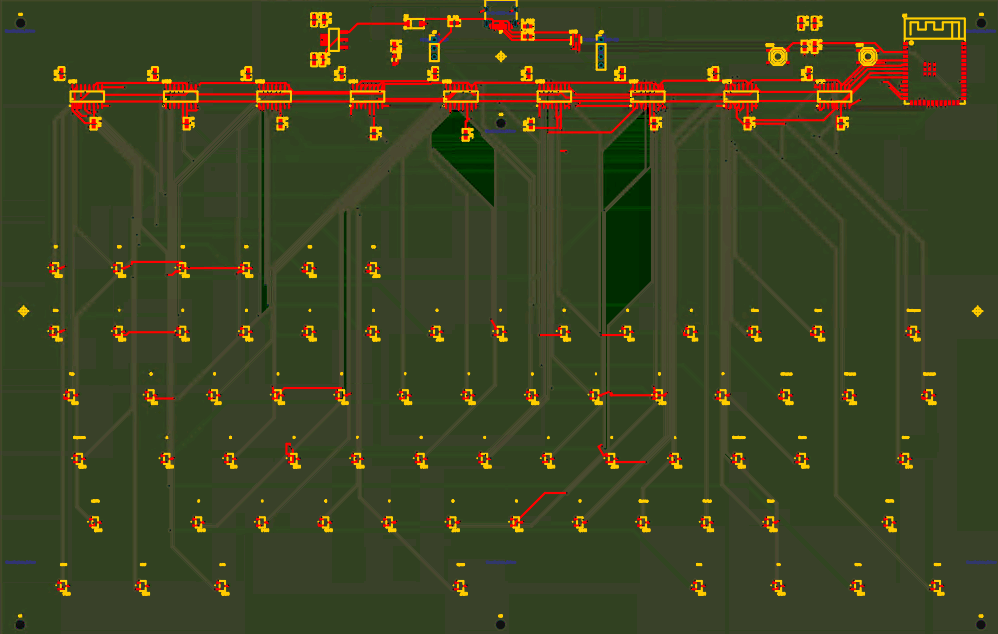
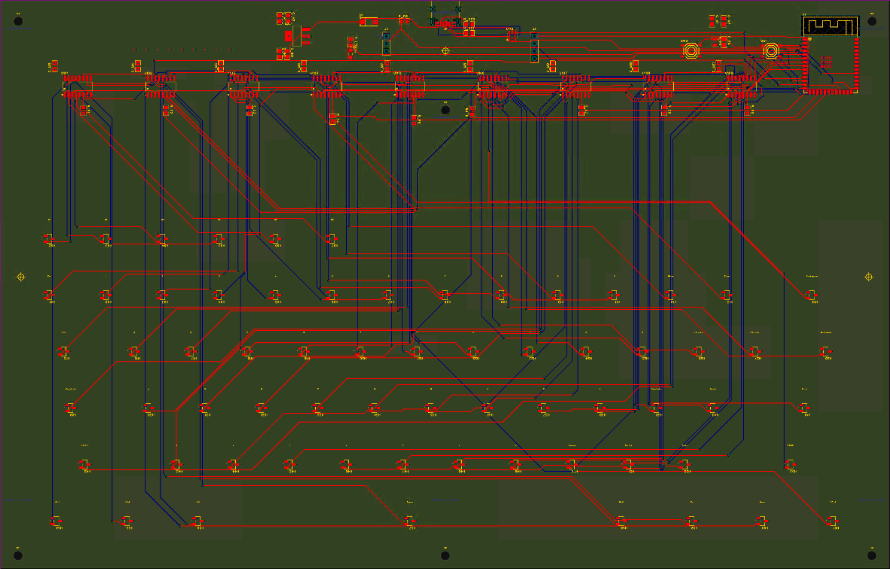
README: PCB 图改用 EDA 原画布导出 (04-显示层/pcb.png)

diff --git a/README.md b/README.md
@@ -19,9 +19,9 @@
 
 <br clear="all" />
 
-<img src="docs/images/pcb-5c-top.png" width="49%" alt="PCB 顶层布线" /><img src="docs/images/pcb-5c-bottom.png" width="49%" alt="PCB 底层布线" />
+**PCB v43b-5c 封板版布线** —— 300×192mm 四层（L1 红 / L2 蓝 / GND+3V3 平面）：67 霍尔 · 9×74HC4051 · ESP32-S3 · DRC 全绿
 
-**PCB v43b-5c 封板版** —— 300×192mm 四层：L1/L2 信号 + GND/3V3 完整平面 · 67 霍尔 · 9×74HC4051 · ESP32-S3 · DRC 全绿
+<img src="04-显示层/pcb.png" width="860" alt="PCB v43b-5c 布线全览" />
 
 </div>
 
